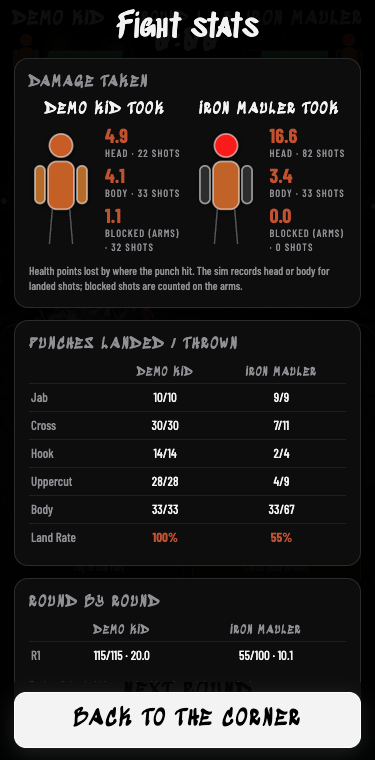
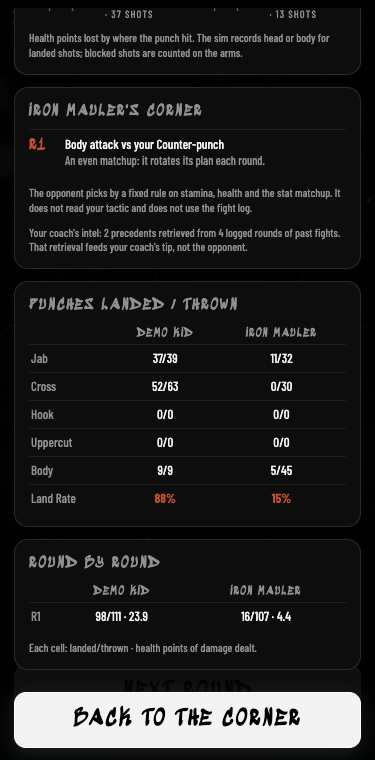
AI corner timeline: tactic and reason per round, honest about rule-based picks (BOX-9)

Changed region(s): [[0.0293, 0.0, 0.9093, 0.8776], [0.9387, 0.0605, 0.968, 0.1211], [0.9387, 0.3934, 0.968, 0.4237]]

diff --git a/public/boxing/index.html b/public/boxing/index.html
@@ -196,6 +196,9 @@
   .dmg-list b { font: 700 20px/1 var(--body); color: var(--accent); margin-right: 4px; }
   .dmg-list span { display: block; font-size: 10.5px; letter-spacing: .1em; text-transform: uppercase; color: var(--muted); }
   .dmg-note { margin: 10px 0 0; font-size: 11.5px; color: var(--muted); }
+  .tl { display: flex; gap: 10px; padding: 6px 0; border-top: 1px solid rgba(255,255,255,.08); font-size: 13px; }
+  .tl-r { font: 400 15px var(--display); color: var(--accent); width: 26px; flex: none; }
+  .tl-why { font-size: 12px; color: var(--muted); }
   .stbl { width: 100%; border-collapse: collapse; font-size: 13px; }
   .stbl th { font: 400 11px var(--display); letter-spacing: .1em; text-transform: uppercase; color: var(--muted); padding: 4px 2px; }
   .stbl td { padding: 5px 2px; text-align: center; border-top: 1px solid rgba(255,255,255,.08); }
@@ -538,7 +541,7 @@ import { createArena3D } from './arena-babylon.js';
 import { LOOK_OPTIONS, PHOTO_OUTFITS, normalizeLook } from './boxer-model.js';
 import { createLookPreview } from './look-preview.js';
 import { profileOf, receivedProfile } from './profile.js';
-import { SCREENS, navigate, statCost, REWARDS, outcomeOf, UNLOCKS, unlockFor, isUnlocked, lockedLook, newUnlocks, scorecard, fightStats, punchBreakdown, PUNCH_TYPES, emptyDamage, recordDamage, zoneHeat, DAMAGE_ZONES, cornerTip, TACTIC_BLURB, SPEEDS, normalizeSettings } from './flow.js';
+import { SCREENS, navigate, statCost, REWARDS, outcomeOf, UNLOCKS, unlockFor, isUnlocked, lockedLook, newUnlocks, scorecard, fightStats, punchBreakdown, PUNCH_TYPES, aiPlan, emptyDamage, recordDamage, zoneHeat, DAMAGE_ZONES, cornerTip, TACTIC_BLURB, SPEEDS, normalizeSettings } from './flow.js';
 import { ENERGY, TIERS, newCareer, normalizeCareer, effectiveStats, conditionPenalty, ladder, rankOf, tierIndex, offersFor, rest, applyFight, canDrill, DRILLS, markerAt, drillResult, applyDrill, trainerTip } from './career.js';
 import { createSfx } from './sfx.js';
 
@@ -891,13 +894,8 @@ $('o-fight').onclick = () => { sfx.click(); startSingle(); };
 
 /** The automated corner: reads gas, health and the score, and picks a tactic. */
 function aiCorner(sim, corner) {
-  const me = sim.fighters[corner], opp = sim.fighters[corner === 'red' ? 'blue' : 'red'];
-  if (me.gasRatio < 0.35) return 'recover';
-  if (opp.gasRatio < 0.45 || opp.health < me.health - 25) return 'pressure';
-  if (opp.stats.power > me.stats.power + 15) return me.stats.ringIQ >= 55 ? 'counter' : 'outbox';
-  if (opp.stats.stamina < me.stats.stamina - 10) return 'body_attack';
-  if (me.stats.speed > opp.stats.speed + 10) return 'outbox';
-  return ['pressure', 'outbox', 'counter', 'body_attack'][(sim.roundIndex + sim.seed) % 4];
+  const f = (c) => ({ health: sim.fighters[c].health, gasRatio: sim.fighters[c].gasRatio, stats: sim.fighters[c].stats });
+  return aiPlan(f(corner), f(corner === 'red' ? 'blue' : 'red'), sim.roundIndex, sim.seed);
 }
 
 // ─── Fight lifecycle ────────────────────────────────────────────────────────
@@ -929,6 +927,8 @@ function startMatch({ mode, seed, matchId, rounds, red, blue, myCorner, career =
   state.corners = {};           // corner calls received for the next round (P2P)
   state.result = null;
   state.damage = emptyDamage();
+  state.timeline = [];
+  state.intel = null;
   for (const c of ['red', 'blue']) paintSilhouette(hudSil[c], state.damage[c]);
 
   sim.on('exchange', onExchange);
@@ -975,6 +975,7 @@ async function awaitCorner() {
     { health: sim.fighters[theirs].health, gasRatio: sim.fighters[theirs].gasRatio, stats: sim.fighters[theirs].stats },
     top ? { tactic: top.tactic, label: TACTICS[top.tactic]?.label ?? top.tactic } : null);
   state.tactic = tactic;
+  state.intel = { precedents: picks.length, rows: await db.fight_logs.count().catch(() => 0) };
   const last = sim.rounds.at(-1);
   $('c-title').textContent = `Round ${sim.roundIndex + 1} of ${sim.totalRounds}`;
   $('c-last').textContent = last ? `Round ${last.round_index}: you ${last.cards[mine]}, ${m.names[theirs]} ${last.cards[theirs]}` : 'Pick a plan and ring the bell.';
@@ -1002,7 +1003,9 @@ function lockCorner() {
   $('start-round').disabled = true;
   if (state.match.mode === 'single') {
     $('corner').hidden = true;
-    beginRound({ [mine]: state.tactic, [theirs]: aiCorner(sim, theirs) });
+    const plan = aiCorner(sim, theirs);
+    state.timeline.push({ round: sim.roundIndex + 1, mine: state.tactic, theirs: plan.tactic, reason: plan.reason });
+    beginRound({ [mine]: state.tactic, [theirs]: plan.tactic });
   } else {
     state.corners[mine] = state.tactic;
     state.peer.send({ type: 'corner', round: sim.roundIndex + 1, tactic: state.tactic });
@@ -1096,7 +1099,7 @@ async function onFightEnd(result) {
   state.hasSaved = true;
   state.result = {
     outcome, method: result.method, ko, names: m.names, myCorner: m.myCorner, mode: m.mode,
-    card: scorecard(sim.rounds), stats: fightStats(sim.rounds), damage: structuredClone(state.damage), rounds: sim.rounds, cards: result.cards,
+    card: scorecard(sim.rounds), stats: fightStats(sim.rounds), damage: structuredClone(state.damage), rounds: sim.rounds, timeline: state.timeline, intel: state.intel, cards: result.cards,
     before, after: { ...state.fighter.record }, gained: REWARDS[outcome], pointsAfter: state.fighter.points, pointsBefore,
     unlocked: newUnlocks(before.w, state.fighter.record.w), career: careerResult,
   };
@@ -1140,7 +1143,7 @@ function renderResult() {
       ...pair('accuracy', `${acc(mine)}%`, `${acc(theirs)}%`),
       ...pair('power', `${s[mine].joules.toFixed(0)} J`, `${s[theirs].joules.toFixed(0)} J`))),
     damageCard(r),
-    ...statCards(r.rounds, r.names, mine, null),
+    ...statCards(r.rounds, r.names, mine, null, r.mode === 'single' ? { timeline: r.timeline, intel: r.intel } : null),
     el('div', { className: 'card reward' },
       el('div', {}, el('b', { textContent: `+${r.gained}` }), el('span', { textContent: 'XP · training points' })),
       el('div', {}, el('b', { textContent: `${rec('w')}-${rec('l')}-${rec('d')}` }), el('span', { textContent: `record (${recChanged === 'w' ? 'win' : recChanged === 'l' ? 'loss' : 'draw'} added)` })),
@@ -1157,7 +1160,7 @@ function renderResult() {
   setTimeout(() => { if (state.screen === 'result') (r.outcome === 'w' ? sfx.win() : r.outcome === 'l' ? sfx.lose() : sfx.click()); }, verdictAt * 1000);
 }
 
-function statCards(rounds, names, mine, damage) {
+function statCards(rounds, names, mine, damage, corner = null) {
   const theirs = mine === 'red' ? 'blue' : 'red';
   const b = punchBreakdown(rounds), s = fightStats(rounds);
   const pct = (a, t) => (t ? `${Math.round((100 * a) / t)}%` : '–');
@@ -1172,12 +1175,25 @@ function statCards(rounds, names, mine, damage) {
     el('td', { textContent: `${r[theirs].landed}/${r[theirs].thrown} · ${r[theirs].dealt.toFixed(1)}` })));
   return [
     damage ? damageCard({ myCorner: mine, names, damage }) : null,
+    corner ? cornerCard(corner, names, mine) : null,
     el('div', { className: 'card' }, el('h3', { textContent: 'Punches landed / thrown' }),
       el('table', { className: 'stbl' }, el('tr', {}, el('th'), head(mine), head(theirs)), ...typeRows)),
     el('div', { className: 'card' }, el('h3', { textContent: 'Round by round' }),
       el('table', { className: 'stbl' }, el('tr', {}, el('th'), head(mine), head(theirs)), ...roundRows),
       el('p', { className: 'dmg-note', textContent: 'Each cell: landed/thrown · health points of damage dealt.' })),
   ].filter(Boolean);
+}
+
+function cornerCard({ timeline, intel }, names, mine) {
+  const theirs = mine === 'red' ? 'blue' : 'red';
+  if (!timeline.length) return null;
+  const label = (k) => TACTICS[k]?.label ?? k;
+  return el('div', { className: 'card' }, el('h3', { textContent: `${names[theirs]}'s corner` }),
+    ...timeline.map((t) => el('div', { className: 'tl' },
+      el('div', { className: 'tl-r', textContent: `R${t.round}` }),
+      el('div', {}, el('div', { textContent: `${label(t.theirs)} vs your ${label(t.mine)}` }), el('div', { className: 'tl-why', textContent: t.reason })))),
+    el('p', { className: 'dmg-note', textContent: 'The opponent picks by a fixed rule on stamina, health and the stat matchup. It does not read your tactic and does not use the fight log.' }),
+    ...(intel ? [el('p', { className: 'dmg-note', textContent: `Your coach's intel: ${intel.precedents} precedent${intel.precedents === 1 ? '' : 's'} retrieved from ${intel.rows} logged round${intel.rows === 1 ? '' : 's'} of past fights. That retrieval feeds your coach's tip, not the opponent.` })] : []));
 }
 
 const ZONE_LABEL = { head: 'Head', body: 'Body', guard: 'Blocked (arms)' };
@@ -1402,7 +1418,7 @@ requestAnimationFrame(hud);
 $('stats-btn').onclick = () => {
   const m = state.match;
   $('stats-body').replaceChildren(el('h3', { className: 'stats-h', style: 'font:400 32px var(--display);margin:0 0 10px;text-align:center', textContent: 'Fight stats' }),
-    ...(state.sim.rounds.length ? statCards(state.sim.rounds, m.names, m.myCorner, state.damage) : [el('p', { className: 'muted', textContent: 'No finished rounds yet.' })]));
+    ...(state.sim.rounds.length ? statCards(state.sim.rounds, m.names, m.myCorner, state.damage, m.mode === 'single' ? { timeline: state.timeline, intel: state.intel } : null) : [el('p', { className: 'muted', textContent: 'No finished rounds yet.' })]));
   $('stats-ov').hidden = false; sfx.click();
 };
 $('stats-close').onclick = () => { $('stats-ov').hidden = true; sfx.click(); };

diff --git a/test/boxing.test.js b/test/boxing.test.js
@@ -324,7 +324,7 @@ test('pressure crowds a defender, but not one who is also on pressure', () => {
 });
 
 // ─── Game flow (flow.js): screens, progression, unlocks, scorecards, corner tips, settings ───
-import { SCREENS, navigate, eventsFrom, statCost, REWARDS, outcomeOf, UNLOCKS, isUnlocked, lockedLook, newUnlocks, scorecard, fightStats, punchBreakdown, PUNCH_TYPES, emptyDamage, recordDamage, zoneOf, zoneHeat, DAMAGE_ZONES, cornerTip, normalizeSettings, DEFAULT_SETTINGS } from '../public/boxing/flow.js';
+import { SCREENS, navigate, eventsFrom, statCost, REWARDS, outcomeOf, UNLOCKS, isUnlocked, lockedLook, newUnlocks, scorecard, fightStats, punchBreakdown, PUNCH_TYPES, aiPlan, emptyDamage, recordDamage, zoneOf, zoneHeat, DAMAGE_ZONES, cornerTip, normalizeSettings, DEFAULT_SETTINGS } from '../public/boxing/flow.js';
 
 test('screen flow: Title to Fighter to Opponent to Fight to Result and back', () => {
   let s = 'title';
@@ -591,4 +591,19 @@ test('punch breakdown by type and round matches the round totals', () => {
     assert.equal(landed, fightStats(sim.rounds)[c].landed);
     assert.equal(b.perRound.reduce((s, r) => s + r[c].landed, 0), landed);
   }
+});
+
+test('the AI corner plan follows its fixed rules and says why', () => {
+  const st = (o = {}) => ({ speed: 50, power: 50, stamina: 50, ringIQ: 50, ...o });
+  const me = (o = {}, f = {}) => ({ health: 100, gasRatio: 1, stats: st(o), ...f });
+  assert.equal(aiPlan(me({}, { gasRatio: 0.2 }), me(), 0, 1).tactic, 'recover');
+  assert.equal(aiPlan(me(), me({}, { gasRatio: 0.3 }), 0, 1).tactic, 'pressure');
+  assert.equal(aiPlan(me({ ringIQ: 70 }), me({ power: 70 }), 0, 1).tactic, 'counter');
+  assert.equal(aiPlan(me({ ringIQ: 40 }), me({ power: 70 }), 0, 1).tactic, 'outbox');
+  assert.equal(aiPlan(me(), me({ stamina: 30 }), 0, 1).tactic, 'body_attack');
+  assert.equal(aiPlan(me({ speed: 70 }), me(), 0, 1).tactic, 'outbox');
+  const even = aiPlan(me(), me(), 2, 1);
+  assert.ok(['pressure', 'outbox', 'counter', 'body_attack'].includes(even.tactic));
+  assert.ok(even.reason.length > 10);
+  assert.equal(aiPlan(me(), me(), 2, 1).tactic, even.tactic, 'deterministic');
 });

diff --git a/public/boxing/flow.js b/public/boxing/flow.js
@@ -75,6 +75,24 @@ export function fightStats(rounds) {
   return out;
 }
 
+/**
+ * The AI corner's pick for a round, with the rule that fired. It is a fixed rule on stamina, health and the stat matchup:
+ * it does not read the other corner's tactic and does not query the fight log. `me`/`opp` are { health, gasRatio, stats }.
+ */
+export function aiPlan(me, opp, roundIndex, seed) {
+  if (me.gasRatio < 0.35) return { tactic: 'recover', reason: 'It was gassed, so it took the round to recover.' };
+  if (opp.gasRatio < 0.45) return { tactic: 'pressure', reason: 'You were tiring, so it pressed.' };
+  if (opp.health < me.health - 25) return { tactic: 'pressure', reason: 'You were hurt, so it pressed.' };
+  if (opp.stats.power > me.stats.power + 15) {
+    return me.stats.ringIQ >= 55
+      ? { tactic: 'counter', reason: 'You hit harder, and it reads well enough to counter.' }
+      : { tactic: 'outbox', reason: 'You hit harder, and it cannot read well enough to counter, so it kept range.' };
+  }
+  if (opp.stats.stamina < me.stats.stamina - 10) return { tactic: 'body_attack', reason: 'You have less stamina, so it went to the body.' };
+  if (me.stats.speed > opp.stats.speed + 10) return { tactic: 'outbox', reason: 'It is quicker, so it boxed from range.' };
+  return { tactic: ['pressure', 'outbox', 'counter', 'body_attack'][(roundIndex + seed) % 4], reason: 'An even matchup: it rotates its plan each round.' };
+}
+
 export const PUNCH_TYPES = ['jab', 'cross', 'hook', 'uppercut', 'body'];
 
 /** Thrown/landed per punch type and per round, from the sim's round summaries. */

diff --git a/public/boxing/HANDOFF.md b/public/boxing/HANDOFF.md
@@ -355,3 +355,7 @@ Eyeballed hub, gym, fight card, corner and result at 375 px (career-e2e screensh
 ## Done (2026-10-04): BOX-9 slice 2, full stats screen (Boxing UI Dev)
 `flow.js` `punchBreakdown(rounds)` (landed/thrown per punch type and per round, from `sim.rounds`, tested). `index.html`: a "Fight stats" button in the between-rounds corner sheet opens a full-screen overlay (damage by zone so far, punches by type with land rate, round by round); the result screen has the same punches-by-type and round-by-round cards. `npm test` 272 pass; `demo-e2e.mjs` clean, screenshots `qa/game-7c-stats-*.png`, `game-8-result-*.png`.
 - Not built from BOX-9: the AI corner timeline (tactic per round, retrieved precedents and why, labelled as retrieval). **Untested**: real phone, overlay scroll on short screens.
+
+## Done (2026-10-04): BOX-9 slice 3, AI corner timeline (Boxing UI Dev)
+`flow.js` `aiPlan(me, opp, roundIndex, seed)` is the AI corner's old rule moved out of `index.html` (same order and outcomes) and now returns `{ tactic, reason }`; tested. The stats overlay and the result screen (single player only) have an "<opponent>'s corner" card: per round, its tactic against yours and why. **Finding**: the AI corner does not use the fight log and does not read the player's tactic; it is a fixed rule on stamina, health and stats. `retrieveTacticalPrecedents` only feeds the player's coach tip. The card says so, plus "Your coach's intel: N precedents retrieved from M logged rounds". `npm test` 274 pass; `demo-e2e.mjs` clean (`qa/game-7d-stats-corner-*.png`).
+- Not built: real in-fight adaptation (AI using precedents or reacting to the player's tactic). Proposed as a separate deterministic step in the BOX-9 comment. **Untested**: real phone, P2P (no AI there, card hidden).
